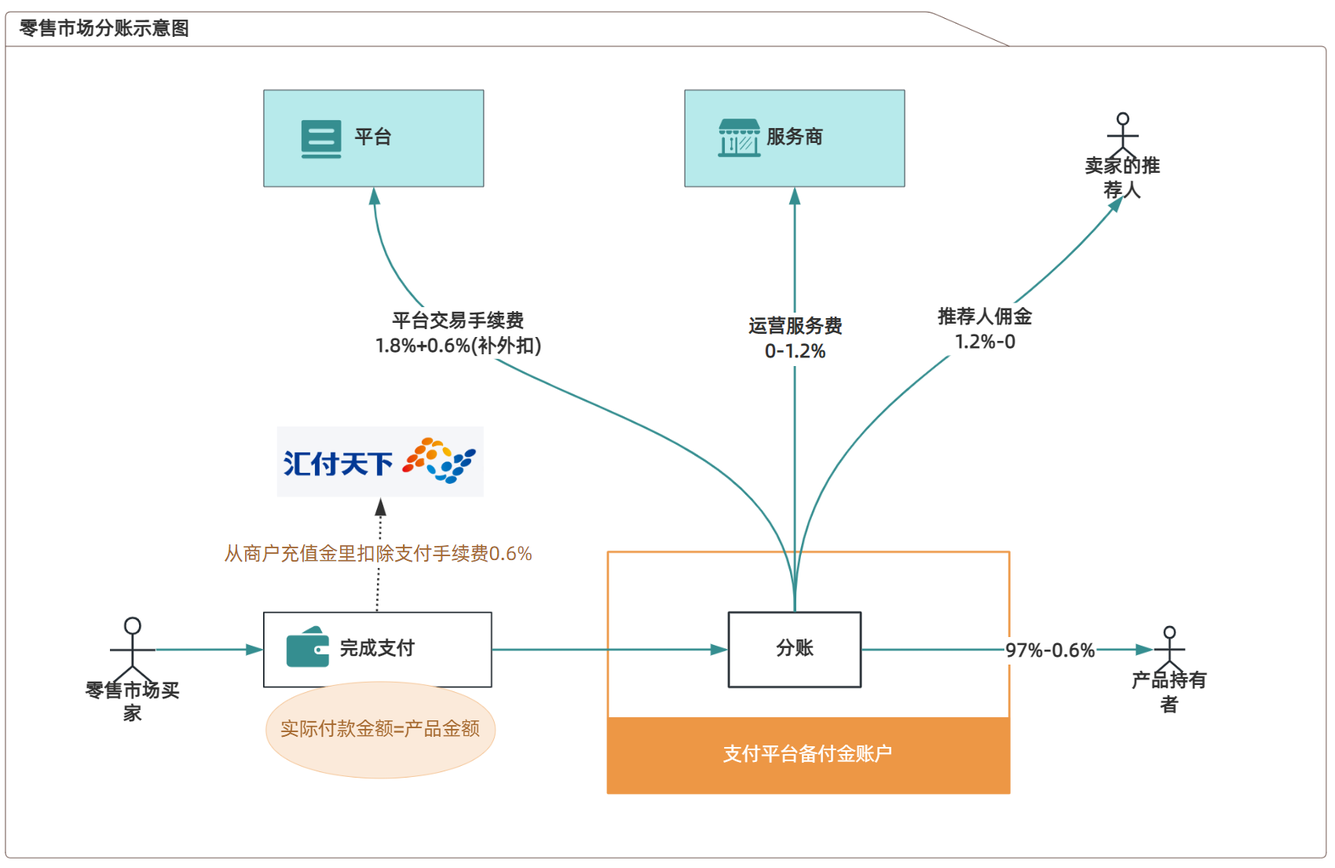
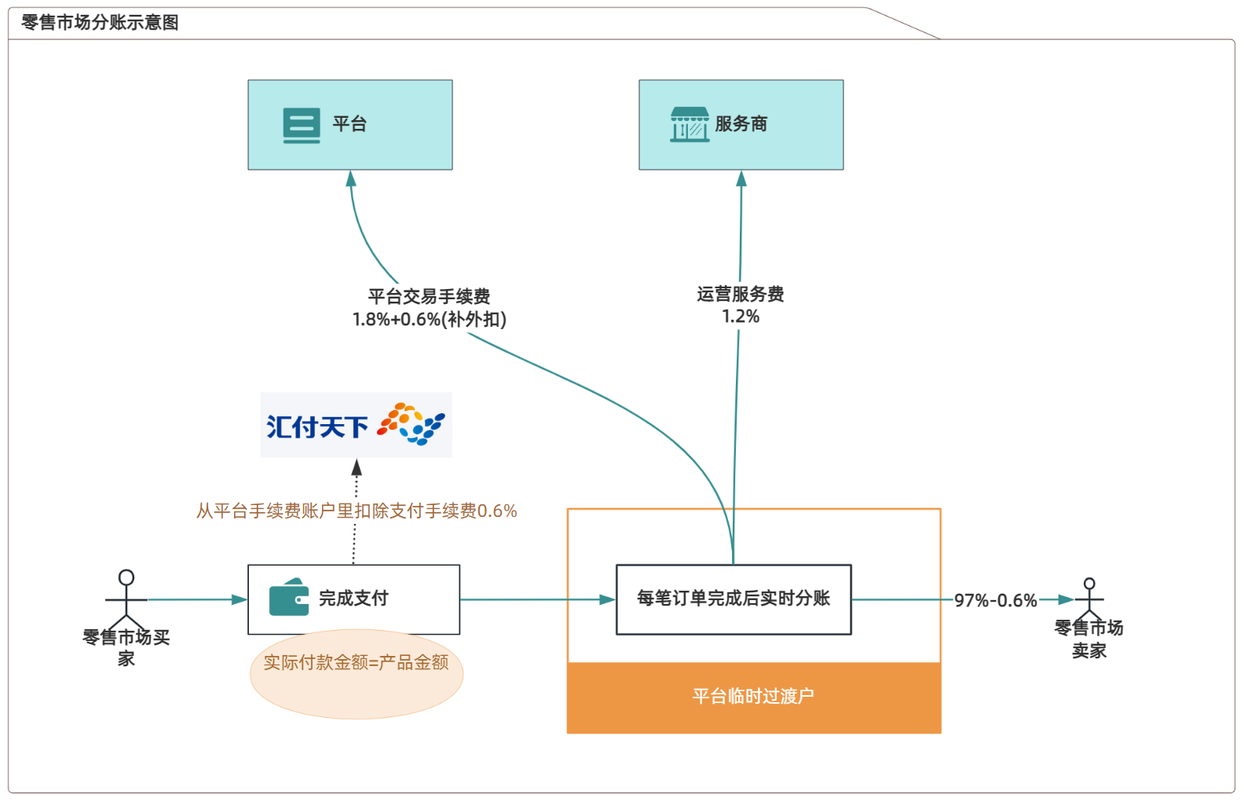
modify

diff --git a/huifu/service/分佣管理.html b/huifu/service/分佣管理.html
@@ -159,10 +159,13 @@
             margin: 12px;
             border-radius: 6px;
             overflow: hidden;
+            overflow-x: auto;
         }
         .table {
             width: 100%;
             border-collapse: collapse;
+            min-width: 1280px;
+            table-layout: auto;
         }
         .table th {
             background: #fafbfc;
@@ -172,12 +175,14 @@
             color: #4e5a6e;
             font-weight: 500;
             border-bottom: 1px solid #f0f0f0;
+            white-space: nowrap;
         }
         .table td {
             padding: 14px 12px;
             font-size: 13px;
             color: #1a1a2e;
             border-bottom: 1px solid #f5f5f7;
+            white-space: nowrap;
         }
         .table tr:last-child td { border-bottom: none; }
         .col-sort {
@@ -223,6 +228,19 @@
             gap: 4px;
             margin-left: 12px;
         }
+
+        /* ── 功能说明浮窗 ── */
+        .f-modal { position: fixed; top: 50%; right: 16px; transform: translateY(-50%); width: 560px; max-height: 80vh; overflow-y: auto; background: #fff; border-radius: 16px; box-shadow: 0 8px 40px rgba(0,0,0,.2); z-index: 9999; padding: 24px; display: none; }
+        .f-modal.show { display: block; }
+        .f-modal .fm-title { font-size: 16px; font-weight: 600; color: #1a1a2e; margin-bottom: 16px; display: flex; justify-content: space-between; align-items: center; cursor: grab; }
+        .f-modal .fm-title:active { cursor: grabbing; }
+        .f-modal .fm-close { width: 28px; height: 28px; border-radius: 50%; background: #f5f5f5; display: flex; align-items: center; justify-content: center; cursor: pointer; font-size: 14px; color: #666; border: none; flex-shrink: 0; }
+        .f-modal .fm-close:hover { background: #e8e8e8; }
+        .f-modal .fm-body { font-size: 13px; color: #555; line-height: 1.8; }
+        .f-modal .fm-body h4 { font-size: 14px; font-weight: 600; color: #1a1a2e; margin: 16px 0 8px; }
+        .f-modal .fm-body h4:first-child { margin-top: 0; }
+        .f-modal .fm-body ul { padding-left: 18px; margin: 0 0 12px; }
+        .f-modal .fm-body li { margin-bottom: 4px; }
     </style>
 </head>
 <body>
@@ -236,6 +254,7 @@
         </div>
     </div>
     <div class="topbar-right">
+        <button onclick="toggleFuncModal()" style="margin-right:12px;padding:6px 14px;border-radius:6px;background:#f5f7fa;color:#333;border:1px solid #e0e4ea;font-size:13px;font-weight:500;cursor:pointer;white-space:nowrap;display:inline-flex;align-items:center;gap:4px;">📖 功能说明</button>
         <span class="avatar">👤</span>
         <span class="name">系统参数设置</span>
         <span class="arrow">▾</span>
@@ -275,7 +294,7 @@
         <select class="filter-select">
             <option>请选择</option>
             <option>批发阶段</option>
-            <option>零售阶段</option>
+            <option>零售市场</option>
         </select>
     </div>
     <div class="filter-item">
@@ -309,21 +328,23 @@
                 <th>总价</th>
                 <th>总手续费</th>
                 <th>分佣金额</th>
+                <th>第三方支付手续费</th>
+                <th>分佣阶段</th>
                 <th>支付渠道</th>
                 <th>创建时间 <span class="col-sort">⇅</span></th>
             </tr>
         </thead>
         <tbody>
-            <tr><td>XB-first26052505252698 01</td><td>20260525144513010 373000001190727</td><td>18227406306</td><td>19981465373</td><td></td><td>提前结案</td><td>1</td><td>62</td><td>62</td><td>1.86</td><td>1.86</td><td>宝付钱包</td><td>2026-05-25 14:45:14</td></tr>
-            <tr><td>XB-txbuy2604080526 5401</td><td>20260409000000010 373000001187002</td><td>18227406306</td><td>18227406306</td><td>19981465373</td><td>印度阿三</td><td>20</td><td>1</td><td>20.12</td><td>0.6</td><td>0.24</td><td>汇付钱包</td><td>2026-04-09 00:00:01</td></tr>
-            <tr><td>XB-first26040805751 101</td><td>20260408160404010 373000001186994</td><td>19981465373</td><td>18227406306</td><td></td><td>45发首发</td><td>0.1</td><td>20</td><td>2</td><td>0.06</td><td>0.06</td><td>宝付钱包</td><td>2026-04-08 16:04:05</td></tr>
-            <tr><td>XB-first26040805747 701</td><td>20260408160404010 373000001186993</td><td>19981465373</td><td>18227406306</td><td></td><td>45发首发</td><td>0.1</td><td>50</td><td>5</td><td>0.15</td><td>0.15</td><td>汇付钱包</td><td>2026-04-08 16:04:04</td></tr>
-            <tr><td>XB-first26040805745 201</td><td>20260408160403010 373000001186992</td><td>19981465373</td><td>18227406306</td><td></td><td>45发首发</td><td>0.1</td><td>10</td><td>1</td><td>0.03</td><td>0.03</td><td>宝付钱包</td><td>2026-04-08 16:04:04</td></tr>
-            <tr><td>XB-first26040805743 101</td><td>20260408160403010 373000001186991</td><td>19981465373</td><td>18227406306</td><td></td><td>45发首发</td><td>0.1</td><td>5</td><td>0.5</td><td>0.01</td><td>0.01</td><td>汇付钱包</td><td>2026-04-08 16:04:03</td></tr>
-            <tr><td>XB-first26040805742 001</td><td>20260408160402010 373000001186990</td><td>19981465373</td><td>18227406306</td><td></td><td>45发首发</td><td>0.1</td><td>4</td><td>0.4</td><td>0.01</td><td>0.01</td><td>宝付钱包</td><td>2026-04-08 16:04:03</td></tr>
-            <tr><td>XB-first26040805738 601</td><td>20260408160401010 373000001186989</td><td>18227406306</td><td>19981465373</td><td></td><td>45发首发</td><td>0.1</td><td>5</td><td>0.5</td><td>0.01</td><td>0.01</td><td>汇付钱包</td><td>2026-04-08 16:04:02</td></tr>
-            <tr><td>XB-first26040805736 901</td><td>20260408160401010 373000001186988</td><td>18227406306</td><td>19981465373</td><td></td><td>45发首发</td><td>0.1</td><td>4</td><td>0.4</td><td>0.01</td><td>0.01</td><td>宝付钱包</td><td>2026-04-08 16:04:02</td></tr>
-            <tr><td>XB-first26040305276 01</td><td>20260403150943010 37300000186943</td><td>19981465373</td><td>18227406306</td><td></td><td>1角的产品</td><td>0.1</td><td>40</td><td>4</td><td>0.12</td><td>0.12</td><td>汇付钱包</td><td>2026-04-03 15:09:44</td></tr>
+            <tr><td>XB-first26052505252698 01</td><td>20260525144513010 373000001190727</td><td>18227406306</td><td>19981465373</td><td></td><td>提前结案</td><td>2</td><td>31</td><td>62</td><td>-</td><td>1.82</td><td>0.04</td><td>批发阶段</td><td>宝付钱包</td><td>2026-05-25 14:45:14</td></tr>
+            <tr><td>XB-txbuy2604080526 5401</td><td>20260409000000010 373000001187002</td><td>18227406306</td><td>18227406306</td><td>19981465373</td><td>印度阿三</td><td>20</td><td>1</td><td>20.12</td><td>0.60</td><td>0.24</td><td>0.00</td><td>零售市场</td><td>汇付钱包</td><td>2026-04-09 00:00:01</td></tr>
+            <tr><td>XB-first26040805751 101</td><td>20260408160404010 373000001186994</td><td>19981465373</td><td>18227406306</td><td></td><td>45发首发</td><td>2</td><td>20</td><td>40</td><td>-</td><td>1.18</td><td>0.02</td><td>批发阶段</td><td>宝付钱包</td><td>2026-04-08 16:04:05</td></tr>
+            <tr><td>XB-first26040805747 701</td><td>20260408160404010 373000001186993</td><td>19981465373</td><td>18227406306</td><td></td><td>45发首发</td><td>2</td><td>50</td><td>100</td><td>-</td><td>2.94</td><td>0.06</td><td>批发阶段</td><td>汇付钱包</td><td>2026-04-08 16:04:04</td></tr>
+            <tr><td>XB-first26040805745 201</td><td>20260408160403010 373000001186992</td><td>19981465373</td><td>18227406306</td><td></td><td>45发首发</td><td>2</td><td>10</td><td>20</td><td>-</td><td>0.59</td><td>0.01</td><td>批发阶段</td><td>宝付钱包</td><td>2026-04-08 16:04:04</td></tr>
+            <tr><td>XB-first26040805743 101</td><td>20260408160403010 373000001186991</td><td>19981465373</td><td>18227406306</td><td></td><td>45发首发</td><td>2</td><td>5</td><td>10</td><td>-</td><td>0.29</td><td>0.01</td><td>批发阶段</td><td>汇付钱包</td><td>2026-04-08 16:04:03</td></tr>
+            <tr><td>XB-first26040805742 001</td><td>20260408160402010 373000001186990</td><td>19981465373</td><td>18227406306</td><td></td><td>45发首发</td><td>2</td><td>4</td><td>8</td><td>-</td><td>0.24</td><td>0.00</td><td>批发阶段</td><td>宝付钱包</td><td>2026-04-08 16:04:03</td></tr>
+            <tr><td>XB-first26040805738 601</td><td>20260408160401010 373000001186989</td><td>18227406306</td><td>19981465373</td><td></td><td>45发首发</td><td>2</td><td>5</td><td>10</td><td>-</td><td>0.29</td><td>0.01</td><td>批发阶段</td><td>汇付钱包</td><td>2026-04-08 16:04:02</td></tr>
+            <tr><td>XB-first26040805736 901</td><td>20260408160401010 373000001186988</td><td>18227406306</td><td>19981465373</td><td></td><td>45发首发</td><td>2</td><td>4</td><td>8</td><td>-</td><td>0.24</td><td>0.00</td><td>批发阶段</td><td>宝付钱包</td><td>2026-04-08 16:04:02</td></tr>
+            <tr><td>XB-first26040305276 01</td><td>20260403150943010 37300000186943</td><td>19981465373</td><td>18227406306</td><td></td><td>首发文创</td><td>2</td><td>20</td><td>40</td><td>-</td><td>1.18</td><td>0.02</td><td>批发阶段</td><td>汇付钱包</td><td>2026-04-03 15:09:44</td></tr>
         </tbody>
     </table>
 
@@ -341,6 +362,62 @@
         <div class="page-jump">10条/页</div>
     </div>
 </div>
+
+<!-- ====== 功能说明浮窗 ====== -->
+<div class="f-modal" id="funcModal">
+  <div class="fm-title">
+    <span>📖 功能说明</span>
+    <button class="fm-close" onclick="toggleFuncModal()">✕</button>
+  </div>
+  <div style="font-size:13px;font-weight:600;color:#e74c5e;margin:-6px 0 12px;">服务商后台</div>
+  <div class="fm-body">
+    <h4>一、分佣列表</h4>
+    <ul>
+      <li><b>列表字段</b>：订单编号、支付单号、分佣账号、买家账号、卖家账号、产品名称、单价、数量、总价、总手续费、分佣金额、第三方支付手续费、分佣阶段、支付渠道、创建时间</li>
+      <li><b>分佣阶段</b>：区分"批发阶段"和"零售市场"，决定不同的金额计算逻辑</li>
+      <li><b>创建时间</b>：支持按创建时间排序查看</li>
+    </ul>
+    <h4>二、金额计算逻辑</h4>
+    <ul>
+      <li><b>批发阶段</b>：总手续费为空（显示"-"），分佣金额 = 总价 × 分佣比例（目前按 3% 算）× 98%，第三方支付手续费 = 总价 × 分佣比例（目前按 3% 算）× 2%</li>
+      <li><b>零售市场</b>：总手续费 = 总价 × 3%，分佣金额 = 总价 × 1.2% × 98%，第三方支付手续费 = 总价 × 1.2% × 2%</li>
+    </ul>
+    <h4>三、筛选查询</h4>
+    <ul>
+      <li><b>筛选条件</b>：产品名称、订单编号、分佣账号、买家账号、卖家账号、时间范围、分佣阶段、支付渠道</li>
+      <li><b>操作</b>：点击"🔍 搜索"按条件查询，点击"重置"清空筛选条件</li>
+      <li><b>导出数据</b>：将当前列表数据导出为文件</li>
+    </ul>
+  </div>
+</div>
+
+<script>
+function toggleFuncModal() {
+  var el = document.getElementById('funcModal');
+  el.classList.toggle('show');
+  if (el.classList.contains('show') && !el.dataset.dragged) {
+    el.style.top = '50%'; el.style.right = '16px'; el.style.left = 'auto'; el.style.transform = 'translateY(-50%)';
+  }
+}
+(function() {
+  var modal, titleBar, offX, offY, dragging = false;
+  document.addEventListener('DOMContentLoaded', function() {
+    modal = document.getElementById('funcModal');
+    titleBar = modal.querySelector('.fm-title');
+    titleBar.addEventListener('mousedown', startDrag);
+    titleBar.addEventListener('touchstart', startDragTouch, {passive:true});
+    document.addEventListener('mousemove', onDrag);
+    document.addEventListener('mouseup', endDrag);
+    document.addEventListener('touchmove', onDragTouch, {passive:true});
+    document.addEventListener('touchend', endDrag);
+  });
+  function startDrag(e) { if (e.target && e.target.classList && e.target.classList.contains('fm-close')) return; modal.dataset.dragged = '1'; modal.style.transform = ''; var rect = modal.getBoundingClientRect(); offX = e.clientX - rect.left; offY = e.clientY - rect.top; dragging = true; titleBar.style.cursor = 'grabbing'; }
+  function startDragTouch(e) { if (e.target && e.target.classList && e.target.classList.contains('fm-close')) return; var t = e.touches[0]; modal.dataset.dragged = '1'; modal.style.transform = ''; var rect = modal.getBoundingClientRect(); offX = t.clientX - rect.left; offY = t.clientY - rect.top; dragging = true; }
+  function onDrag(e) { if (!dragging) return; modal.style.left = (e.clientX - offX) + 'px'; modal.style.top = (e.clientY - offY) + 'px'; }
+  function onDragTouch(e) { if (!dragging) return; var t = e.touches[0]; modal.style.left = (t.clientX - offX) + 'px'; modal.style.top = (t.clientY - offY) + 'px'; }
+  function endDrag() { dragging = false; if (titleBar) titleBar.style.cursor = 'grab'; }
+})();
+</script>
 
 </body>
 </html>

diff --git a/huifu/admin/批发市场分账管理.html b/huifu/admin/批发市场分账管理.html
@@ -302,8 +302,9 @@
                 <th>首次分账时间</th>
                 <th>批发商分账</th>
                 <th>服务商分账</th>
-                <th>推荐人分账</th>
-                <th>平台分账</th>
+                <th>平台分账（上线服务费）</th>
+                <th>平台分账（补第三方支付手续费）</th>
+                <th>平台分账（平台管理服务费）</th>
                 <th>零售市场分账</th>
                 <th>剩余金额</th>
                 <th>零售市场最后分账时间</th>
@@ -331,32 +332,34 @@
     <h4>列表字段</h4>
     <ul>
       <li>订单编号、产品名称、用户账号、购买数量、单价、总价、第三方支付手续费、创建时间、首次分账时间</li>
-      <li>订单编号、产品名称、用户账号、数量/单价、总价、第三方支付手续费、创建时间、首次分账时间、批发商分账（金额+比例）、服务商分账（金额+比例）、推荐人分账（金额+比例）、平台分账（金额+比例）、零售市场分账（次数×数量/金额）、剩余金额、零售市场最后分账时间</li>
+      <li>订单编号、产品名称、用户账号、数量/单价、总价、第三方支付手续费、创建时间、首次分账时间、批发商分账（金额+比例）、服务商分账（金额+比例）、平台分账（上线服务费/补第三方支付手续费/平台管理服务费，金额+比例）、零售市场分账（次数/金额）、剩余金额、零售市场最后分账时间</li>
     </ul>
     <h4>首次分账逻辑</h4>
     <ul>
-      <li>平台分账：<b>15% + 0.6%</b>（如果平台运营管理服务费设置的浮动比例，则是5%+浮动比例）</li>
-      <li>服务商分账：<b>20% - 3%</b>（20%-推荐人分账）</li>
-      <li>批发商分账：<b>25% - 0.6%</b>（如果平台运营管理服务费设置的浮动比例，则是25%+10%-浮动比例-0.6%）</li>
-      <li>推荐人分账：<b>3%</b>（根据后台设置，比如3%）</li>
+      <li>平台分账（上线服务费）：<b>5%</b></li>
+      <li>平台分账（补第三方支付手续费）：<b>0.6%</b></li>
+      <li>平台分账（平台管理服务费）：<b>10%</b></li>
+      <li>服务商分账：<b>20%</b></li>
+      <li>批发商分账：<b>25% - 0.6%</b></li>
     </ul>
     <h4>分账计算规则</h4>
     <ul>
       <li><b>第三方支付手续费</b> = 总价 × 0.6%</li>
-      <li><b>零售市场分账总金额</b> =（总价 - 批发商分账 - 服务商分账 - 平台分账）/ 总数量 × 零售市场分账总数量</li>
-      <li><b>剩余金额</b> = 总价 - 批发商分账 - 服务商分账 - 平台分账 - 零售市场分账总金额</li>
+      <li><b>平台分账（合计）</b> = 上线服务费5% + 补第三方支付手续费0.6% + 平台管理服务费10%</li>
+      <li><b>零售市场分账总金额</b> =（总价 - 批发商分账 - 服务商分账 - 平台分账合计）/ 总数量 × 零售市场分账总数量</li>
+      <li><b>剩余金额</b> = 总价 - 批发商分账 - 服务商分账 - 平台分账合计 - 零售市场分账总金额</li>
     </ul>
   </div>
 </div>
 
 <script>
 var data = [
-    { id: 1, orderNo: 'XB-first26071505024701', product: '中路财童', userNo: '1876829699476860930', qty: 5, price: 128.00, total: 640.00, fee: 3.84, createTime: '2026-07-15 13:57:39', firstTime: '2026-07-15 14:00:01', wsShare: 156.16, wsRate: '25%-0.6%', svShare: 108.80, svRate: '20%-3%', recommendShare: 19.20, recommendRate: '3%', pfShare: 99.84, pfRate: '15%+0.6%', rCount: 3, rQty: 3, rAmount: 165.12, remain: 110.08, lastTime: '2026-07-18 09:00:00', rLastTime: '2026-07-18 10:12:33' },
-    { id: 2, orderNo: 'XB-first26071505016701', product: '中路财童', userNo: '1878638327087280130', qty: 8, price: 260.00, total: 2080.00, fee: 12.48, createTime: '2026-07-15 13:56:24', firstTime: '2026-07-15 13:58:02', wsShare: 507.52, wsRate: '25%-0.6%', svShare: 353.60, svRate: '20%-3%', recommendShare: 62.40, recommendRate: '3%', pfShare: 324.48, pfRate: '15%+0.6%', rCount: 5, rQty: 5, rAmount: 559.00, remain: 335.40, lastTime: '2026-07-16 09:00:00', rLastTime: '2026-07-16 09:20:11' },
-    { id: 3, orderNo: 'XB-first26071504105201', product: '中路财童', userNo: '1881547100063838210', qty: 12, price: 320.00, total: 3840.00, fee: 23.04, createTime: '2026-07-15 11:24:14', firstTime: '2026-07-15 11:26:45', wsShare: 936.96, wsRate: '25%-0.6%', svShare: 652.80, svRate: '20%-3%', recommendShare: 115.20, recommendRate: '3%', pfShare: 599.04, pfRate: '15%+0.6%', rCount: 0, rQty: 0, rAmount: 0.00, remain: 1651.20, lastTime: '-', rLastTime: '-' },
-    { id: 4, orderNo: 'XB-first26071504026701', product: '中路财童', userNo: '2061664641202323457', qty: 3, price: 100.00, total: 300.00, fee: 1.80, createTime: '2026-07-15 11:11:16', firstTime: '2026-07-15 11:12:30', wsShare: 73.20, wsRate: '25%-0.6%', svShare: 51.00, svRate: '20%-3%', recommendShare: 9.00, recommendRate: '3%', pfShare: 46.80, pfRate: '15%+0.6%', rCount: 2, rQty: 2, rAmount: 86.00, remain: 43.00, lastTime: '2026-07-15 11:10:00', rLastTime: '2026-07-15 11:12:31' },
-    { id: 5, orderNo: 'XB-first26071504008801', product: '中路财童', userNo: '1881528763372056578', qty: 6, price: 420.00, total: 2520.00, fee: 15.12, createTime: '2026-07-15 11:08:19', firstTime: '2026-07-15 11:10:05', wsShare: 614.88, wsRate: '25%-0.6%', svShare: 428.40, svRate: '20%-3%', recommendShare: 75.60, recommendRate: '3%', pfShare: 393.12, pfRate: '15%+0.6%', rCount: 4, rQty: 4, rAmount: 722.40, remain: 361.20, lastTime: '2026-07-19 15:00:00', rLastTime: '2026-07-19 15:42:58' },
-    { id: 6, orderNo: 'XB-first26071503857801', product: '中路财童', userNo: '1977229438734100253', qty: 9, price: 180.00, total: 1620.00, fee: 9.72, createTime: '2026-07-15 10:42:58', firstTime: '2026-07-15 10:45:12', wsShare: 395.28, wsRate: '25%-0.6%', svShare: 275.40, svRate: '20%-3%', recommendShare: 48.60, recommendRate: '3%', pfShare: 252.72, pfRate: '15%+0.6%', rCount: 6, rQty: 6, rAmount: 464.40, remain: 232.20, lastTime: '2026-07-16 14:00:00', rLastTime: '2026-07-16 14:05:20' }
+    { id: 1, orderNo: 'XB-first26071505024701', product: '中路财童', userNo: '1876829699476860930', qty: 5, price: 128.00, total: 640.00, fee: 3.84, createTime: '2026-07-15 13:57:39', firstTime: '2026-07-15 14:00:01', wsShare: 156.16, wsRate: '25%-0.6%', svShare: 128.00, svRate: '20%', pfOnline: 32.00, pfFee: 3.84, pfMgmt: 64.00, rCount: 3, rQty: 3, rAmount: 153.60, remain: 102.40, lastTime: '2026-07-18 09:00:00', rLastTime: '2026-07-18 10:12:33' },
+    { id: 2, orderNo: 'XB-first26071505016701', product: '中路财童', userNo: '1878638327087280130', qty: 8, price: 260.00, total: 2080.00, fee: 12.48, createTime: '2026-07-15 13:56:24', firstTime: '2026-07-15 13:58:02', wsShare: 507.52, wsRate: '25%-0.6%', svShare: 416.00, svRate: '20%', pfOnline: 104.00, pfFee: 12.48, pfMgmt: 208.00, rCount: 5, rQty: 5, rAmount: 520.00, remain: 312.00, lastTime: '2026-07-16 09:00:00', rLastTime: '2026-07-16 09:20:11' },
+    { id: 3, orderNo: 'XB-first26071504105201', product: '中路财童', userNo: '1881547100063838210', qty: 12, price: 320.00, total: 3840.00, fee: 23.04, createTime: '2026-07-15 11:24:14', firstTime: '2026-07-15 11:26:45', wsShare: 936.96, wsRate: '25%-0.6%', svShare: 768.00, svRate: '20%', pfOnline: 192.00, pfFee: 23.04, pfMgmt: 384.00, rCount: 0, rQty: 0, rAmount: 0.00, remain: 1536.00, lastTime: '-', rLastTime: '-' },
+    { id: 4, orderNo: 'XB-first26071504026701', product: '中路财童', userNo: '2061664641202323457', qty: 3, price: 100.00, total: 300.00, fee: 1.80, createTime: '2026-07-15 11:11:16', firstTime: '2026-07-15 11:12:30', wsShare: 73.20, wsRate: '25%-0.6%', svShare: 60.00, svRate: '20%', pfOnline: 15.00, pfFee: 1.80, pfMgmt: 30.00, rCount: 2, rQty: 2, rAmount: 80.00, remain: 40.00, lastTime: '2026-07-15 11:10:00', rLastTime: '2026-07-15 11:12:31' },
+    { id: 5, orderNo: 'XB-first26071504008801', product: '中路财童', userNo: '1881528763372056578', qty: 6, price: 420.00, total: 2520.00, fee: 15.12, createTime: '2026-07-15 11:08:19', firstTime: '2026-07-15 11:10:05', wsShare: 614.88, wsRate: '25%-0.6%', svShare: 504.00, svRate: '20%', pfOnline: 126.00, pfFee: 15.12, pfMgmt: 252.00, rCount: 4, rQty: 4, rAmount: 672.00, remain: 336.00, lastTime: '2026-07-19 15:00:00', rLastTime: '2026-07-19 15:42:58' },
+    { id: 6, orderNo: 'XB-first26071503857801', product: '中路财童', userNo: '1977229438734100253', qty: 9, price: 180.00, total: 1620.00, fee: 9.72, createTime: '2026-07-15 10:42:58', firstTime: '2026-07-15 10:45:12', wsShare: 395.28, wsRate: '25%-0.6%', svShare: 324.00, svRate: '20%', pfOnline: 81.00, pfFee: 9.72, pfMgmt: 162.00, rCount: 6, rQty: 6, rAmount: 432.00, remain: 216.00, lastTime: '2026-07-16 14:00:00', rLastTime: '2026-07-16 14:05:20' }
 ];
 
 function renderTable() {
@@ -374,9 +377,10 @@ function renderTable() {
             '    <td>' + o.firstTime + '</td>',
             '    <td><div class="cell-main">¥' + o.wsShare.toFixed(2) + '</div><div class="cell-rate">' + o.wsRate + '</div></td>',
             '    <td><div class="cell-main">¥' + o.svShare.toFixed(2) + '</div><div class="cell-rate">' + o.svRate + '</div></td>',
-            '    <td><div class="cell-main">¥' + o.recommendShare.toFixed(2) + '</div><div class="cell-rate">' + o.recommendRate + '</div></td>',
-            '    <td><div class="cell-main">¥' + o.pfShare.toFixed(2) + '</div><div class="cell-rate">' + o.pfRate + '</div></td>',
-            '    <td><div class="cell-main">次数 ' + o.rCount + ' × ' + o.rQty + '</div><div class="cell-sub">¥' + o.rAmount.toFixed(2) + '</div></td>',
+            '    <td><div class="cell-main">¥' + o.pfOnline.toFixed(2) + '</div><div class="cell-rate">5%</div></td>',
+            '    <td><div class="cell-main">¥' + o.pfFee.toFixed(2) + '</div><div class="cell-rate">0.6%</div></td>',
+            '    <td><div class="cell-main">¥' + o.pfMgmt.toFixed(2) + '</div><div class="cell-rate">10%</div></td>',
+            '    <td><div class="cell-main">次数 ' + o.rCount + '</div><div class="cell-sub">¥' + o.rAmount.toFixed(2) + '</div></td>',
             '    <td><div class="amount-val">¥' + o.remain.toFixed(2) + '</div></td>',
             '    <td>' + o.rLastTime + '</td>',
             '</tr>'

diff --git a/huifu/admin/零售市场订单.html b/huifu/admin/零售市场订单.html
@@ -366,9 +366,8 @@
                 <th>卖家所得金额</th>
                 <th>订单状态</th>
                 <th>是否提货</th>
-                <th>平台手续费</th>
-                <th>服务商手续费</th>
-                <th>推荐人分佣</th>
+                <th>平台交易手续费</th>
+                <th>服务商运营服务费</th>
                 <th>服务商</th>
                 <th>支付产品</th>
                 <th>支付渠道</th>
@@ -381,12 +380,12 @@
 
 <script>
 var data = [
-    { id: 1, orderNo: 'XB-txbuy26072004046001', payNo: '1260720111445095227', product: '东坡万里', buyer: '153019...', seller: '153563...', qty: 1, price: 9.9, buyerPay: 9.96, buyerFee: 0.3, sellerFee: 0.96, sellerIncome: 9.6, status: 'done', isPickup: '仓库暂存', platformFee: 0.18, serviceFee: 0.08, recommendFee: 0.04, service: '四川华泰博文文化艺术发展有限公司', payProduct: '银行卡', payChannel: '宝付钱包', time: '2026-07-20 11:14:37' },
-    { id: 2, orderNo: 'XB-txbuy26072004034301', payNo: '1260720111244892128', product: '诺亚宝', buyer: '153019...', seller: '132952...', qty: 3, price: 3.78, buyerPay: 11.41, buyerFee: 0.35, sellerFee: 10.99, sellerIncome: 0, status: 'done', isPickup: '仓库暂存', platformFee: 0.21, serviceFee: 0.10, recommendFee: 0.04, service: '四川华泰博文文化艺术发展有限公司', payProduct: '银行卡', payChannel: '汇付钱包', time: '2026-07-20 11:12:41' },
-    { id: 3, orderNo: 'XB-txbuy26072003711901', payNo: '—', product: '诺亚宝', buyer: '153019...', seller: '132952...', qty: 3, price: 3.78, buyerPay: 0, buyerFee: 0, sellerFee: 0, sellerIncome: 0, status: 'canceled', isPickup: '仓库暂存', platformFee: 0.21, serviceFee: 0.10, recommendFee: 0.04, service: '四川华泰博文文化艺术发展有限公司', payProduct: '/', payChannel: '/', time: '2026-07-20 09:32:15' },
-    { id: 4, orderNo: 'XB-txbuy26071704007801', payNo: '1260717110765289498', product: '招财财', buyer: '153019...', seller: '131356...', qty: 1, price: 30, buyerPay: 30.18, buyerFee: 0.9, sellerFee: 29.1, sellerIncome: 0, status: 'done', isPickup: '仓库暂存', platformFee: 0.54, serviceFee: 0.24, recommendFee: 0.12, service: '四川华泰博文文化艺术发展有限公司', payProduct: '银行卡', payChannel: '宝付钱包', time: '2026-07-17 11:08:14' },
-    { id: 5, orderNo: 'XB-txbuy26071703998401', payNo: '1260717110665197510', product: '东坡佛春', buyer: '153019...', seller: '138413...', qty: 1, price: 6.75, buyerPay: 6.8, buyerFee: 0.21, sellerFee: 6.54, sellerIncome: 0, status: 'done', isPickup: '仓库暂存', platformFee: 0.13, serviceFee: 0.06, recommendFee: 0.02, service: '四川华泰博文文化艺术发展有限公司', payProduct: '银行卡', payChannel: '汇付钱包', time: '2026-07-17 11:06:43' },
-    { id: 6, orderNo: 'XB-txbuy26071703962401', payNo: '1260717110064894877', product: '招财财', buyer: '153019...', seller: '187321...', qty: 2, price: 29, buyerPay: 58.35, buyerFee: 1.74, sellerFee: 56.26, sellerIncome: 0, status: 'done', isPickup: '仓库暂存', platformFee: 1.05, serviceFee: 0.46, recommendFee: 0.23, service: '四川华泰博文文化艺术发展有限公司', payProduct: '银行卡', payChannel: '宝付钱包', time: '2026-07-17 11:00:44' }
+    { id: 1, orderNo: 'XB-txbuy26072004046001', payNo: '1260720111445095227', product: '东坡万里', buyer: '153019...', seller: '153563...', qty: 1, price: 9.9, buyerPay: 9.96, buyerFee: 0.3, sellerFee: 0.96, sellerIncome: 9.6, status: 'done', isPickup: '仓库暂存', platformFee: 0.18, serviceFee: 0.12, service: '四川华泰博文文化艺术发展有限公司', payProduct: '银行卡', payChannel: '宝付钱包', time: '2026-07-20 11:14:37' },
+    { id: 2, orderNo: 'XB-txbuy26072004034301', payNo: '1260720111244892128', product: '诺亚宝', buyer: '153019...', seller: '132952...', qty: 3, price: 3.78, buyerPay: 11.41, buyerFee: 0.35, sellerFee: 10.99, sellerIncome: 0, status: 'done', isPickup: '仓库暂存', platformFee: 0.21, serviceFee: 0.14, service: '四川华泰博文文化艺术发展有限公司', payProduct: '银行卡', payChannel: '汇付钱包', time: '2026-07-20 11:12:41' },
+    { id: 3, orderNo: 'XB-txbuy26072003711901', payNo: '—', product: '诺亚宝', buyer: '153019...', seller: '132952...', qty: 3, price: 3.78, buyerPay: 0, buyerFee: 0, sellerFee: 0, sellerIncome: 0, status: 'canceled', isPickup: '仓库暂存', platformFee: 0.21, serviceFee: 0.14, service: '四川华泰博文文化艺术发展有限公司', payProduct: '/', payChannel: '/', time: '2026-07-20 09:32:15' },
+    { id: 4, orderNo: 'XB-txbuy26071704007801', payNo: '1260717110765289498', product: '招财财', buyer: '153019...', seller: '131356...', qty: 1, price: 30, buyerPay: 30.18, buyerFee: 0.9, sellerFee: 29.1, sellerIncome: 0, status: 'done', isPickup: '仓库暂存', platformFee: 0.54, serviceFee: 0.36, service: '四川华泰博文文化艺术发展有限公司', payProduct: '银行卡', payChannel: '宝付钱包', time: '2026-07-17 11:08:14' },
+    { id: 5, orderNo: 'XB-txbuy26071703998401', payNo: '1260717110665197510', product: '东坡佛春', buyer: '153019...', seller: '138413...', qty: 1, price: 6.75, buyerPay: 6.8, buyerFee: 0.21, sellerFee: 6.54, sellerIncome: 0, status: 'done', isPickup: '仓库暂存', platformFee: 0.13, serviceFee: 0.08, service: '四川华泰博文文化艺术发展有限公司', payProduct: '银行卡', payChannel: '汇付钱包', time: '2026-07-17 11:06:43' },
+    { id: 6, orderNo: 'XB-txbuy26071703962401', payNo: '1260717110064894877', product: '招财财', buyer: '153019...', seller: '187321...', qty: 2, price: 29, buyerPay: 58.35, buyerFee: 1.74, sellerFee: 56.26, sellerIncome: 0, status: 'done', isPickup: '仓库暂存', platformFee: 1.05, serviceFee: 0.69, service: '四川华泰博文文化艺术发展有限公司', payProduct: '银行卡', payChannel: '宝付钱包', time: '2026-07-17 11:00:44' }
 ];
 
 var statusNames = { done: '已成交', canceled: '已撤销' };
@@ -411,7 +410,6 @@ function renderTable() {
             '    <td>' + o.isPickup + '</td>',
             '    <td>' + o.platformFee + '</td>',
             '    <td>' + o.serviceFee + '</td>',
-            '    <td>' + o.recommendFee + '</td>',
             '    <td>' + o.service + '</td>',
             '    <td>' + o.payProduct + '</td>',
             '    <td>' + o.payChannel + '</td>',
@@ -442,10 +440,10 @@ renderTable();
       <li>原<b>支付渠道</b>改为<b>支付产品</b>（银行卡 / 余额）</li>
       <li>作为筛选条件并在列表中展示</li>
     </ul>
-    <h4><span class="badge">3</span> <span style="vertical-align:middle;">推荐人分佣</span></h4>
+    <h4><span class="badge">3</span> <span style="vertical-align:middle;">服务商运营服务费</span></h4>
     <ul>
-      <li>增加<b>推荐人分佣</b>作为列表项（位于「服务商手续费」后）</li>
-      <li>原先的「服务商手续费」拆分为<b>服务商手续费</b>和<b>推荐人分佣</b></li>
+      <li>去掉单独的「推荐人分佣」列表项</li>
+      <li>原「服务商手续费」与「推荐人分佣」合并为<b>服务商运营服务费</b>（推荐人分佣金额并入服务商手续费）</li>
       <li>在一次交易中完成分账</li>
     </ul>
   </div>

diff --git a/huifu/index.html b/huifu/index.html
@@ -200,7 +200,7 @@
                 <li>增加委托服务商提现功能，提现需要审核</li>
                     <div style="margin-top:6px;line-height:1.9;">
                         <div><a href="service/资金账号管理.html" target="_blank" style="color:#1a78ff;text-decoration:underline;">服务商申请提现</a></div>
-                        <div><a href="服务商提现审核.html" target="_blank" style="color:#1a78ff;text-decoration:underline;">平台审核提现</a></div>
+                        <div><a href="admin/服务商提现审核.html" target="_blank" style="color:#1a78ff;text-decoration:underline;">平台审核提现</a></div>
                     </div>
                 <li>我的代理进去，增加搜索功能：按照产品名称模糊搜索</li>
             </ul>
@@ -226,71 +226,10 @@
         </div>
     </div>
 
-    <!-- 分账比例优化 -->
-    <div class="req-section open">
-        <div class="req-header">
-            <span class="num">5</span>
-            分账比例优化
-            <span class="arrow">▾</span>
-        </div>
-        <div class="req-body">
-            <table class="fee-table">
-                <tr>
-                    <td class="label-cell">上线服务费</td>
-                    <td colspan="2">批发商总货款的 5%</td>
-                </tr>
-                <tr>
-                    <td class="label-cell">平台运营管理服务费</td>
-                    <td colspan="2">0~10%</td>
-                </tr>
-                <tr>
-                    <td class="label-cell">单品批发总价 0~500万</td>
-                    <td>服务费 10%</td>
-                    <td></td>
-                </tr>
-                <tr>
-                    <td class="label-cell">单品批发总价 501~800万</td>
-                    <td>服务费 8%</td>
-                    <td></td>
-                </tr>
-                <tr>
-                    <td class="label-cell">单品批发总价 801~1000万</td>
-                    <td>服务费 7%</td>
-                    <td></td>
-                </tr>
-                <tr>
-                    <td class="label-cell">单品批发总价 大于1000万</td>
-                    <td>服务费 6%</td>
-                    <td></td>
-                </tr>
-                <tr>
-                    <td class="label-cell">委托服务商销售推广费</td>
-                    <td colspan="2">20%</td>
-                </tr>
-                <tr>
-                    <td class="label-cell">固定保证金</td>
-                    <td colspan="2">40%</td>
-                </tr>
-                <tr>
-                    <td class="label-cell">批发商售卖分账</td>
-                    <td colspan="2">25%</td>
-                </tr>
-            </table>
-            <div class="note">注：分账比例调整为可输入</div>
-        </div>
-        <div class="req-body">
-            <div style="margin-top:6px;line-height:1.9;">
-                <div><a href="admin/产品上线设置.html" target="_blank" style="color:#1a78ff;text-decoration:underline;">平台管理服务费配置</a></div>
-                <div><a href="admin/批发市场分账管理.html" target="_blank" style="color:#1a78ff;text-decoration:underline;">批发市场分账管理</a></div>
-            </div>
-        </div>
-            
-    </div>
-
     <!-- 支付系统更换 -->
     <div class="req-section open">
         <div class="req-header">
-            <span class="num">6</span>
+            <span class="num">5</span>
             支付系统更换成汇付
             <span class="arrow">▾</span>
         </div>
@@ -351,7 +290,7 @@
     <!-- 历史遗留问题 -->
     <div class="req-section open">
         <div class="req-header">
-            <span class="num">7</span>
+            <span class="num">6</span>
             <span class="req-title">历史遗留问题</span>
             <span class="req-arrow">▾</span>
         </div>
